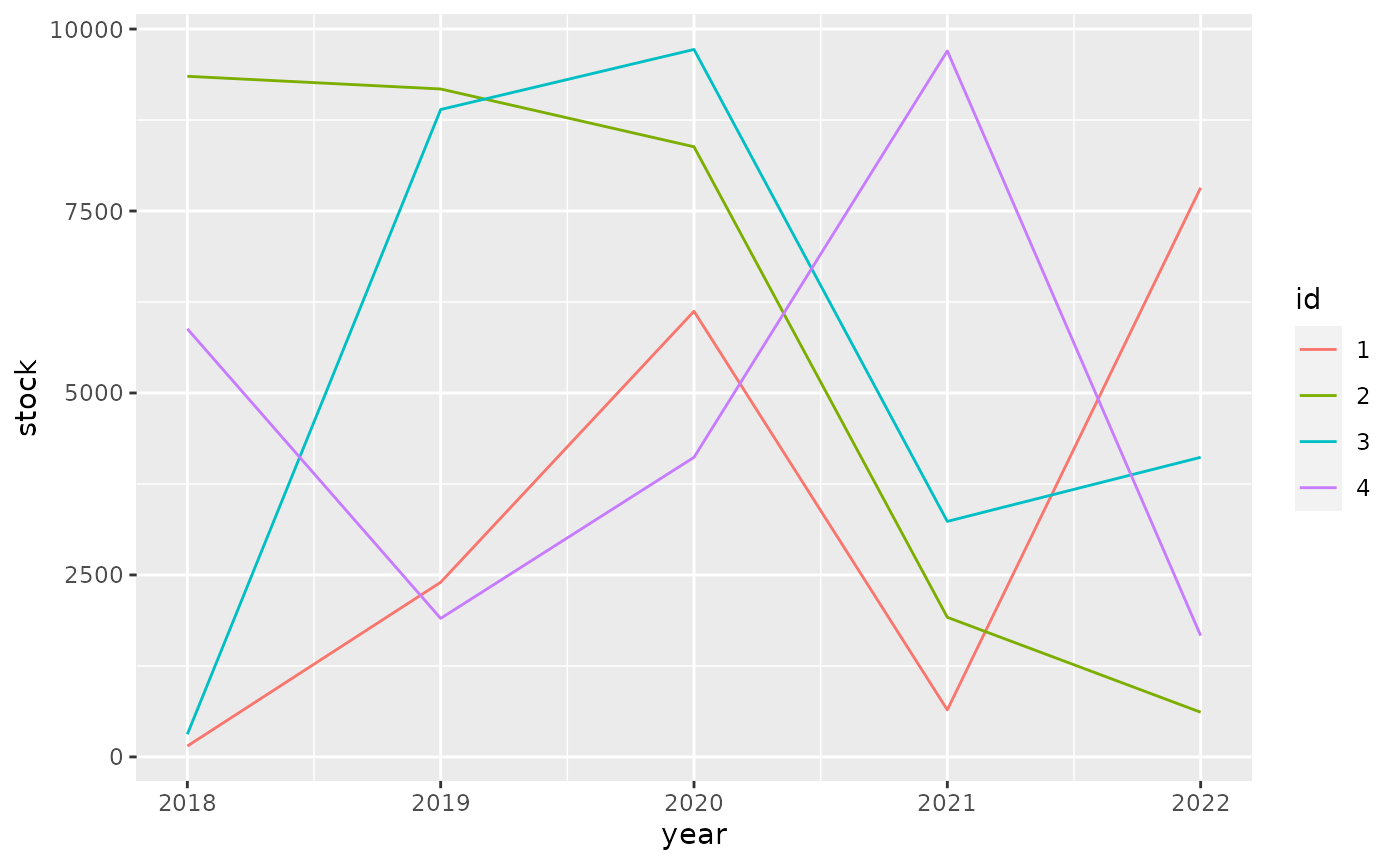
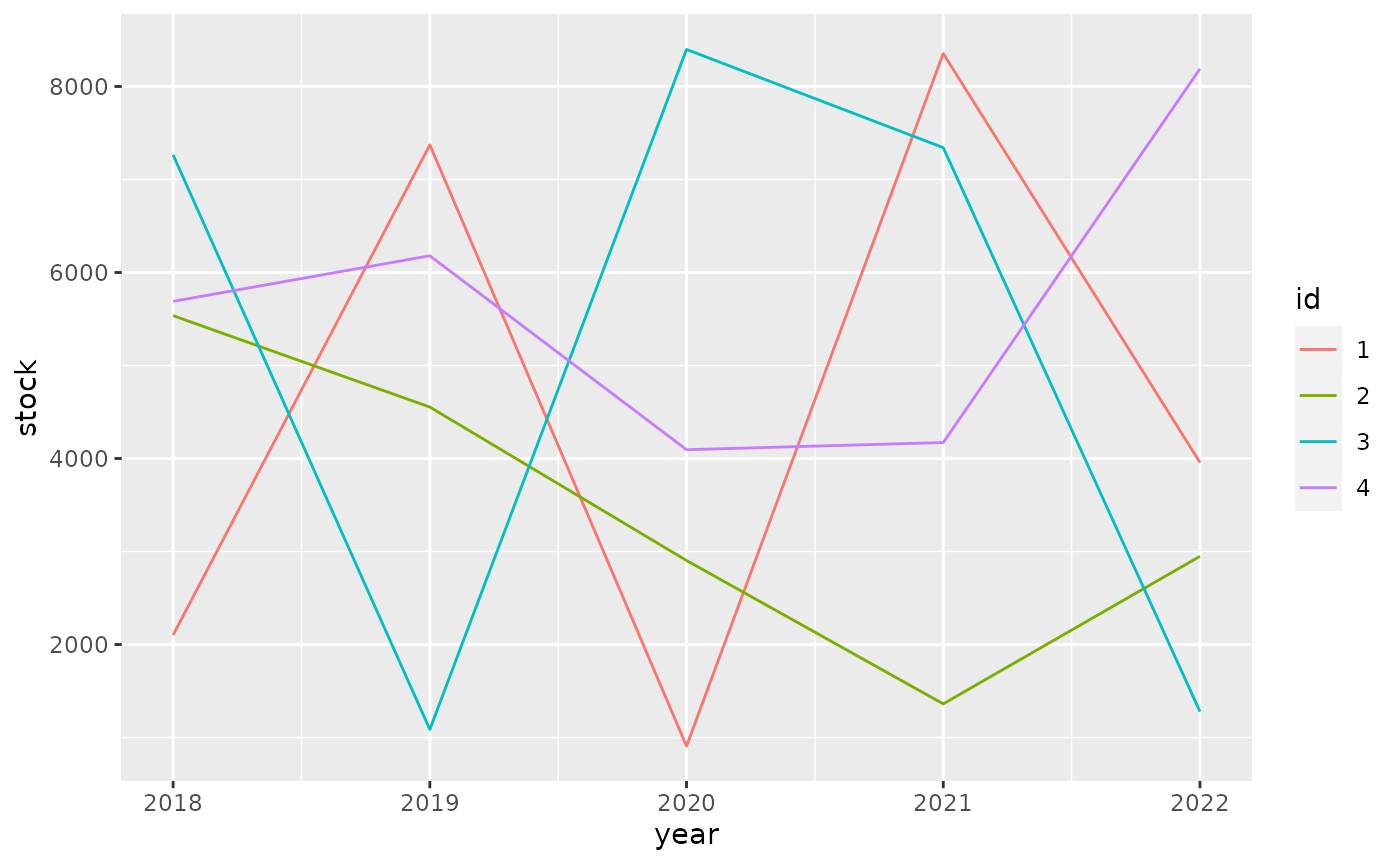
Built site for tibble: 3.1.2@9047193

diff --git a/articles/formats.html b/articles/formats.html
@@ -220,10 +220,10 @@
 <span class="co">#&gt; # A tibble: 4 x 6</span>
 <span class="co">#&gt;   id       `2018`    `2019`    `2020`    `2021`    `2022`</span>
 <span class="co">#&gt;   &lt;fct&gt; &lt;dbl:fmt&gt; &lt;dbl:fmt&gt; &lt;dbl:fmt&gt; &lt;dbl:fmt&gt; &lt;dbl:fmt&gt;</span>
-<span class="co">#&gt; 1 1       $148.94 $2,399.34 $6,122.60   $646.47 $7,820.38</span>
-<span class="co">#&gt; 2 2     $9,350.98 $9,176.54 $8,382.50 $1,918.12   $613.91</span>
-<span class="co">#&gt; 3 3       $311.33 $8,894.24 $9,719.78 $3,235.94 $4,116.29</span>
-<span class="co">#&gt; 4 4     $5,881.36 $1,903.08 $4,116.06 $9,699.46 $1,666.35</span></code></pre></div>
+<span class="co">#&gt; 1 1     $2,101.78 $7,372.30   $907.99 $8,354.71 $3,957.43</span>
+<span class="co">#&gt; 2 2     $5,536.02 $4,553.16 $2,903.36 $1,361.89 $2,948.68</span>
+<span class="co">#&gt; 3 3     $7,265.25 $1,086.52 $8,398.24 $7,342.35 $1,278.67</span>
+<span class="co">#&gt; 4 4     $5,689.63 $6,179.83 $4,094.53 $4,171.73 $8,190.46</span></code></pre></div>
 <p>For ggplot2 we need to do <a href="https://github.com/tidyverse/ggplot2/pull/4065" class="external-link">some work</a> to show apply the formatting to the scales.</p>
 <div class="sourceCode" id="cb6"><pre class="downlit sourceCode r">
 <code class="sourceCode R"><span class="kw"><a href="https://rdrr.io/r/base/library.html" class="external-link">library</a></span><span class="op">(</span><span class="va"><a href="https://ggplot2.tidyverse.org" class="external-link">ggplot2</a></span><span class="op">)</span>
@@ -234,10 +234,10 @@
   <span class="fu"><a href="https://ggplot2.tidyverse.org/reference/geom_path.html" class="external-link">geom_line</a></span><span class="op">(</span><span class="op">)</span></code></pre></div>
 <p><img src="formats_files/figure-html/unnamed-chunk-7-1.png" width="700"></p>
 <p>It pays off to specify formatting very early in the process. The diagram below shows the principal stages of data analysis and exploration from “R for data science”.</p>
-<div id="htmlwidget-4fe4b9b18f0eafbc6c82" style="width:700px;height:432.632880098888px;" class="DiagrammeR html-widget"></div>
-<script type="application/json" data-for="htmlwidget-4fe4b9b18f0eafbc6c82">{"x":{"diagram":"graph TD\n  Import --> Tidy\n  Tidy --> Transform\n  Transform --> Visualize\n  Visualize --> Communicate\n  Visualize --> Model\n  Model -.-> Transform"},"evals":[],"jsHooks":[]}</script><p>The subsequent diagram adds data formats, communication options, and explicit data formatting. The original r4ds transitions are highlighted in bold. There are two principal options where to apply formatting for results: right before communicating them, or right after importing.</p>
-<div id="htmlwidget-d2b9adf9e998e1d08ea5" style="width:700px;height:432.632880098888px;" class="DiagrammeR html-widget"></div>
-<script type="application/json" data-for="htmlwidget-d2b9adf9e998e1d08ea5">{"x":{"diagram":"graph TD\n  .csv --> Import\n  API --> Import\n  DBI --> Import\n  dbplyr --> Import\n  Import -.-> Format[Format for analysis]\n  Format -.-> Tidy\n\n  subgraph r4ds\n  Import ==> Tidy\n  Tidy ==> Transform\n  Transform ==> Visualize\n  Visualize ==> Model\n  Model -.-> Transform\n  Visualize ==> Communicate\n  end\n\n  Visualize -.-> FormatComm[Format for communication]\n  FormatComm -.-> Communicate\n\n  FormatComm -- Apply formatting early --> Format\n\n  dbplyr -.-> Tidy\n  dbplyr -.-> Transform\n  dbplyr -.-> Visualize\n\n  Communicate --> gt\n  Communicate --> ggplot2\n  Communicate --> DT\n  Communicate --> plotly"},"evals":[],"jsHooks":[]}</script><p>Applying formatting early in the process gives the added benefit of showing the data in a useful format during the “Tidy”, “Transform”, and “Visualize” stages. For this to be useful, we need to ensure that the formatting options applied early:</p>
+<div id="htmlwidget-ae5a9e291fde7799acc5" style="width:700px;height:432.632880098888px;" class="DiagrammeR html-widget"></div>
+<script type="application/json" data-for="htmlwidget-ae5a9e291fde7799acc5">{"x":{"diagram":"graph TD\n  Import --> Tidy\n  Tidy --> Transform\n  Transform --> Visualize\n  Visualize --> Communicate\n  Visualize --> Model\n  Model -.-> Transform"},"evals":[],"jsHooks":[]}</script><p>The subsequent diagram adds data formats, communication options, and explicit data formatting. The original r4ds transitions are highlighted in bold. There are two principal options where to apply formatting for results: right before communicating them, or right after importing.</p>
+<div id="htmlwidget-c3b453879c5ef9c46900" style="width:700px;height:432.632880098888px;" class="DiagrammeR html-widget"></div>
+<script type="application/json" data-for="htmlwidget-c3b453879c5ef9c46900">{"x":{"diagram":"graph TD\n  .csv --> Import\n  API --> Import\n  DBI --> Import\n  dbplyr --> Import\n  Import -.-> Format[Format for analysis]\n  Format -.-> Tidy\n\n  subgraph r4ds\n  Import ==> Tidy\n  Tidy ==> Transform\n  Transform ==> Visualize\n  Visualize ==> Model\n  Model -.-> Transform\n  Visualize ==> Communicate\n  end\n\n  Visualize -.-> FormatComm[Format for communication]\n  FormatComm -.-> Communicate\n\n  FormatComm -- Apply formatting early --> Format\n\n  dbplyr -.-> Tidy\n  dbplyr -.-> Transform\n  dbplyr -.-> Visualize\n\n  Communicate --> gt\n  Communicate --> ggplot2\n  Communicate --> DT\n  Communicate --> plotly"},"evals":[],"jsHooks":[]}</script><p>Applying formatting early in the process gives the added benefit of showing the data in a useful format during the “Tidy”, “Transform”, and “Visualize” stages. For this to be useful, we need to ensure that the formatting options applied early:</p>
 <ul>
 <li>give a good user experience for analysis
 <ul>

diff --git a/articles/types.html b/articles/types.html
@@ -351,7 +351,7 @@
 #&gt; $ factor        &lt;fct&gt; A
 #&gt; $ ordered       &lt;ord&gt; a
 #&gt; $ Date          &lt;date&gt; 2021-05-16
-#&gt; $ POSIXt        &lt;dttm&gt; 2021-05-16 05:53:58
+#&gt; $ POSIXt        &lt;dttm&gt; 2021-05-16 06:07:30
 #&gt; $ difftime      &lt;drtn&gt; 1 secs
 #&gt; $ hms           &lt;time&gt; 00:00:01
 #&gt; $ integer64     &lt;int64&gt; 10000000000
@@ -387,7 +387,7 @@
 <span class="co">#&gt;             "sym"</span>
 <span class="co">#&gt;         }, typeof(x))</span>
 <span class="co">#&gt; }</span>
-<span class="co">#&gt; &lt;bytecode: 0x5582b77c5700&gt;</span>
+<span class="co">#&gt; &lt;bytecode: 0x5641abde5600&gt;</span>
 <span class="co">#&gt; &lt;environment: namespace:pillar&gt;</span></code></pre></div>
 </div>
   </div>
